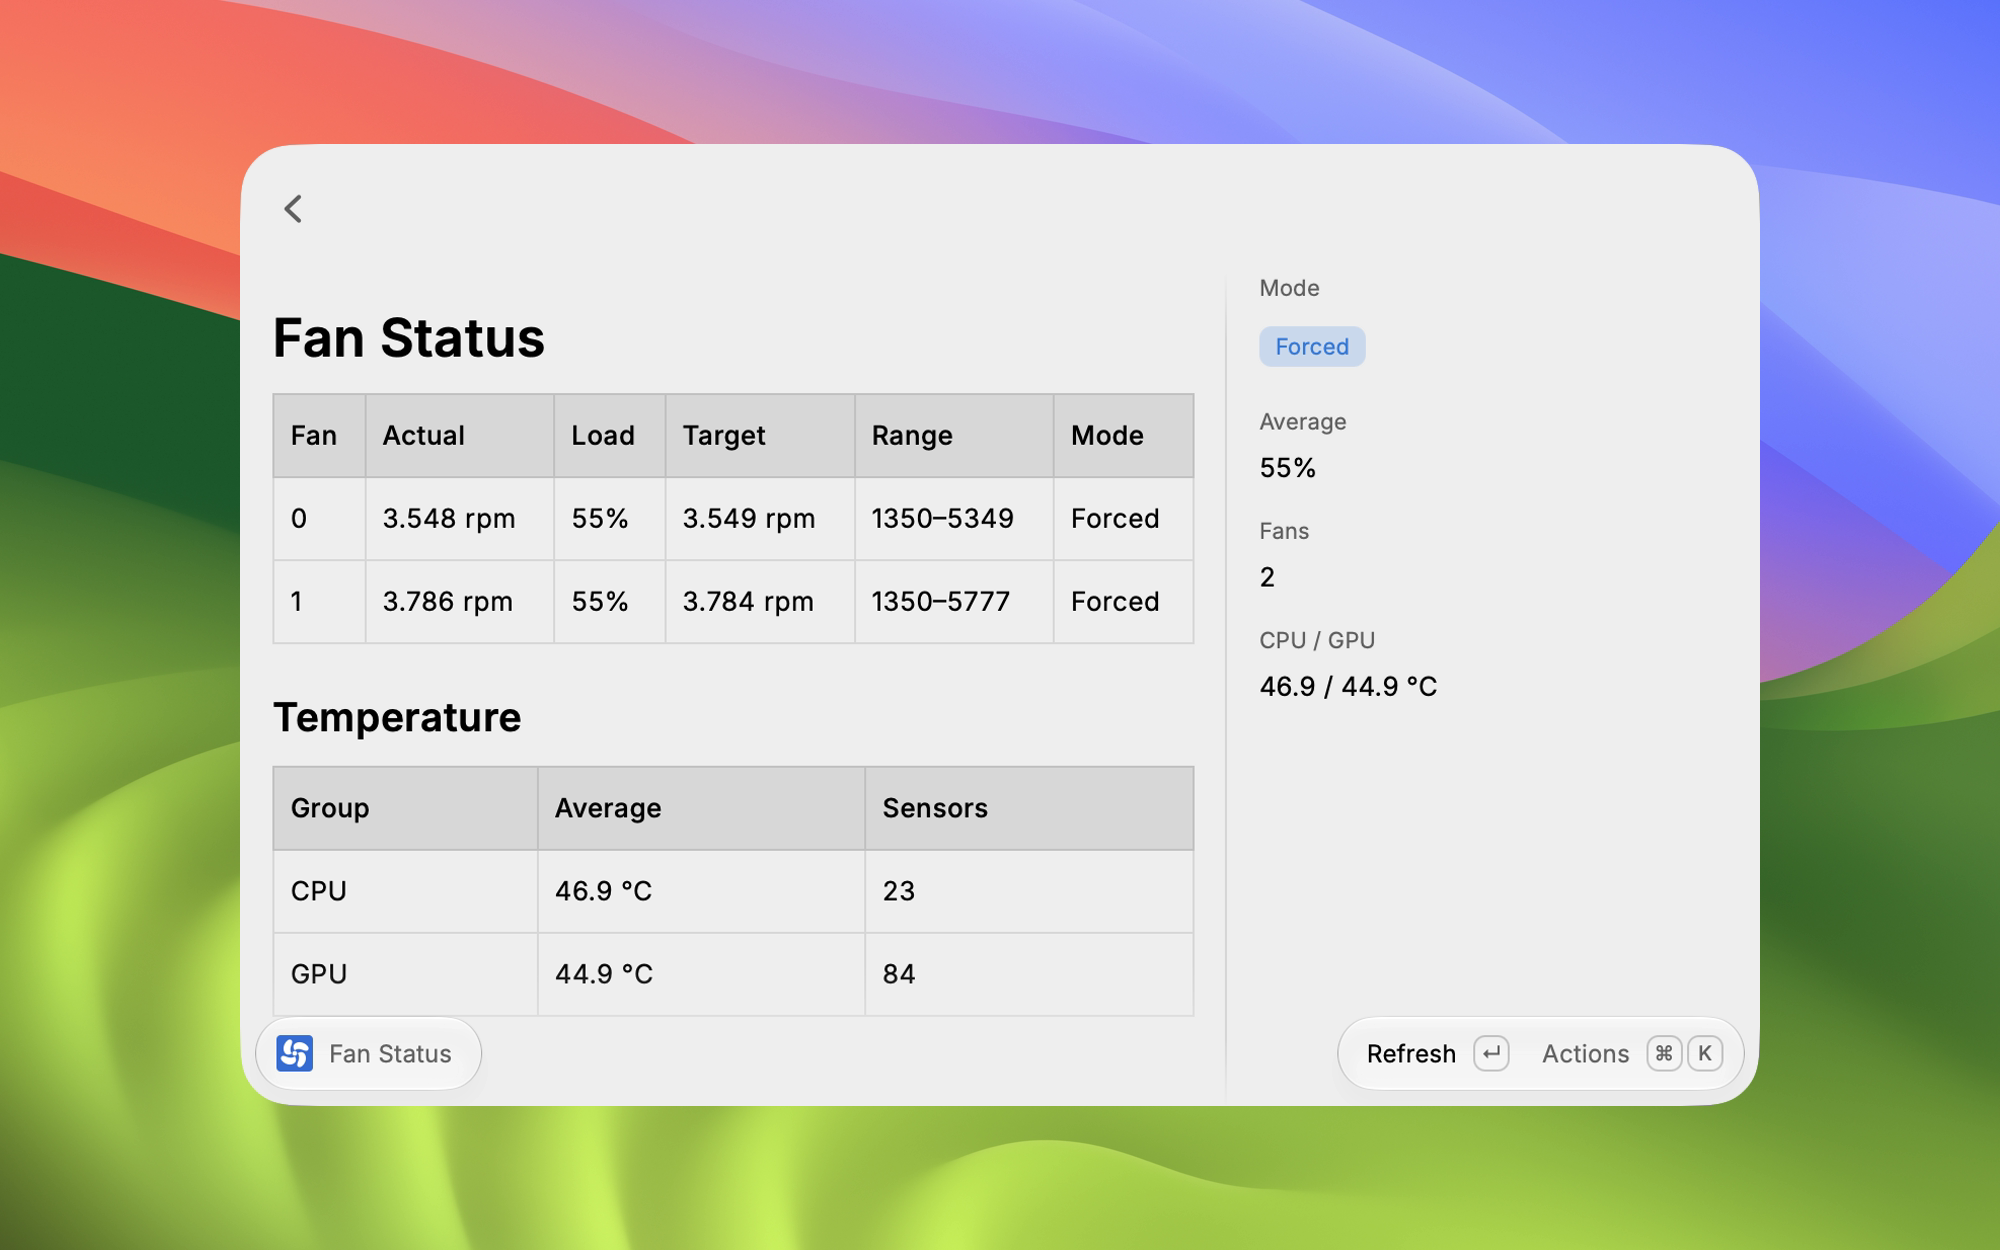
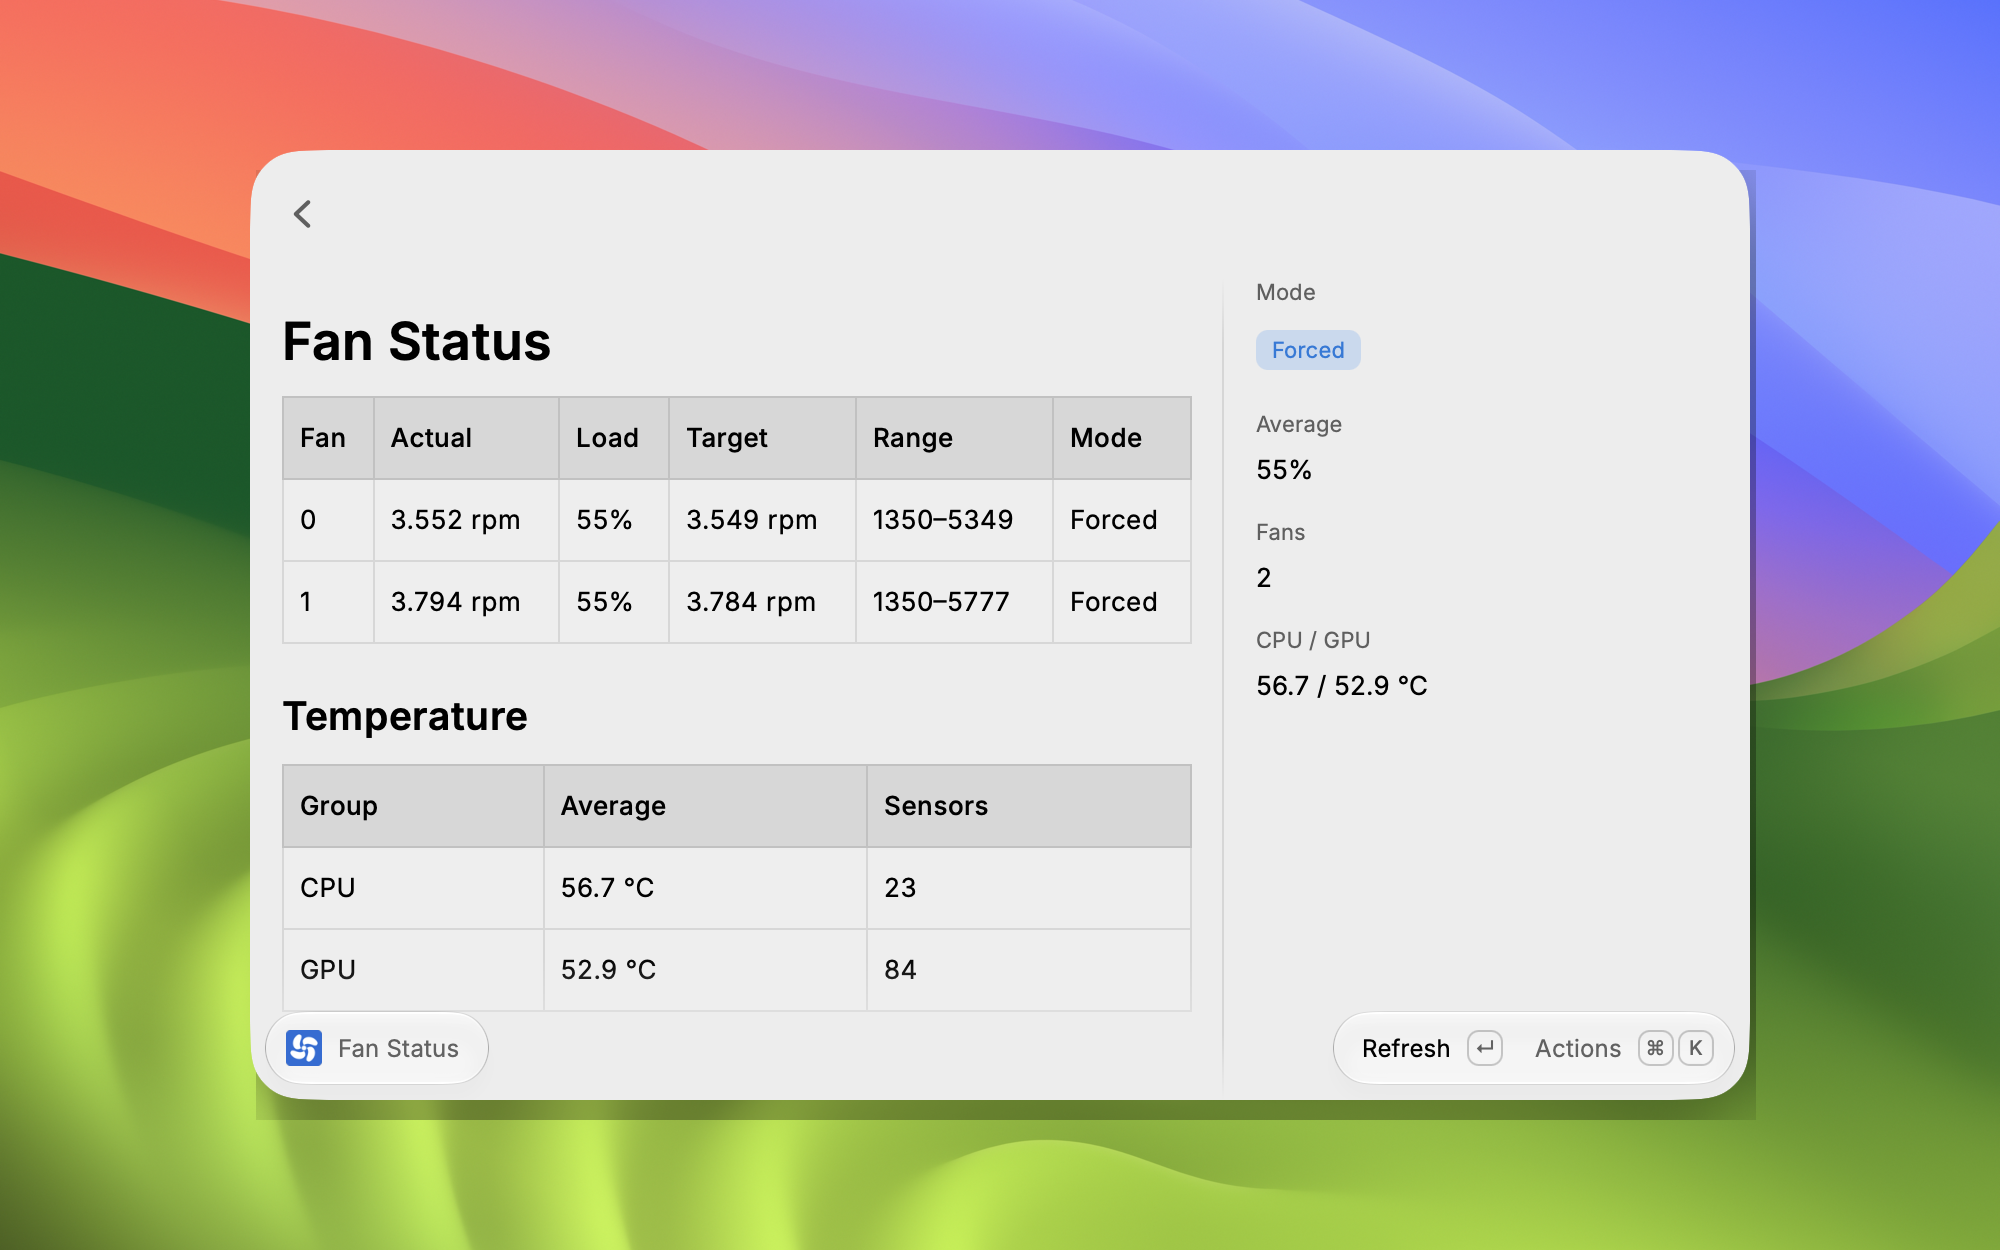
fix: address Raycast Store review feedback (#3)
* fix: address Raycast Store review feedback

- Set Fan Speed: drop the root navigationTitle — the bottom bar shows the
  command title now, and the current mode and speed moved into a section header
- Cool Until Below: the same navigationTitle fix, plus showFailureToast
- Use showFailureToast from @raycast/utils for failures in every command
- Add a "Mac Fan Control" subtitle to each command
- Fold the extension changelog into a single Initial Version entry
- Refresh the lockfile for macos-fan-control-client ^1.1.0

🤖 Generated with [OpenCode](https://opencode.ai) (BSP Agent)

* Update store screenshots for the current UI

Retake the metadata screenshots at 2000x1250: the Set Fan Speed bottom bar and
the action list now reflect the review fixes, and add a Cool Until Below shot.

🤖 Generated with [OpenCode](https://opencode.ai) (BSP Agent)

* Re-centre the actions screenshot

The action-panel capture carried a transparent margin, so centring the whole
capture left the window off-centre and failed the Raycast metadata-image
validator.

🤖 Generated with [OpenCode](https://opencode.ai) (BSP Agent)

diff --git a/interfaces/raycast/src/set-fan-speed.tsx b/interfaces/raycast/src/set-fan-speed.tsx
@@ -9,7 +9,7 @@ import {
   confirmAlert,
   showToast,
 } from "@raycast/api";
-import { useCachedPromise } from "@raycast/utils";
+import { showFailureToast, useCachedPromise } from "@raycast/utils";
 import {
   average,
   estimate,
@@ -40,9 +40,8 @@ export default function Command() {
       toast.title = title;
       revalidate();
     } catch (error) {
-      toast.style = Toast.Style.Failure;
-      toast.title = "Failed";
-      toast.message = (error as Error).message;
+      await toast.hide();
+      showFailureToast(error, { title: "Failed" });
     }
   }
 
@@ -63,64 +62,71 @@ export default function Command() {
   }
 
   return (
-    <List
-      isLoading={isLoading}
-      navigationTitle={
-        fans.length ? `${current} · ${currentPercent}%` : "Fan Control"
-      }
-    >
-      <List.Item
-        icon={{ source: Icon.Repeat, tintColor: Color.Green }}
-        title="Automatic"
-        subtitle="Firmware decides"
-        accessories={
-          current === "Auto"
-            ? [{ tag: { value: "Active", color: Color.Green } }]
-            : []
+    <List isLoading={isLoading}>
+      {/* Set Fan Speed is a root command, so the bottom bar shows its own title;
+          the current mode and speed live here instead. */}
+      <List.Section
+        title={
+          fans.length
+            ? `Current: ${current} · ${currentPercent}%`
+            : "Fan Control"
         }
-        actions={
-          <ActionPanel>
-            <Action
-              title="Restore Automatic"
-              icon={Icon.Repeat}
-              onAction={() => apply(setAutomatic, "Fans on automatic")}
-            />
-          </ActionPanel>
-        }
-      />
-      {PRESETS.map((percent) => (
+      >
         <List.Item
-          key={percent}
-          icon={{
-            source: percent === 100 ? Icon.Bolt : Icon.Gauge,
-            tintColor: percent < CONFIRM_BELOW ? Color.Orange : Color.Blue,
-          }}
-          title={label(percent)}
-          subtitle={fans
-            .map((fan) => rpm(estimate(fan, percent)))
-            .join("  ·  ")}
+          icon={{ source: Icon.Repeat, tintColor: Color.Green }}
+          title="Automatic"
+          subtitle="Firmware decides"
           accessories={
-            current === "Forced" && currentPercent === percent
-              ? [{ tag: { value: "Active", color: Color.Blue } }]
+            current === "Auto"
+              ? [{ tag: { value: "Active", color: Color.Green } }]
               : []
           }
           actions={
             <ActionPanel>
               <Action
-                title={`Force ${label(percent)}`}
-                icon={Icon.Bolt}
-                onAction={() => force(percent)}
-              />
-              <Action
                 title="Restore Automatic"
                 icon={Icon.Repeat}
-                shortcut={{ modifiers: ["cmd", "shift"], key: "r" }}
                 onAction={() => apply(setAutomatic, "Fans on automatic")}
               />
             </ActionPanel>
           }
         />
-      ))}
+      </List.Section>
+      <List.Section title="Force speed">
+        {PRESETS.map((percent) => (
+          <List.Item
+            key={percent}
+            icon={{
+              source: percent === 100 ? Icon.Bolt : Icon.Gauge,
+              tintColor: percent < CONFIRM_BELOW ? Color.Orange : Color.Blue,
+            }}
+            title={label(percent)}
+            subtitle={fans
+              .map((fan) => rpm(estimate(fan, percent)))
+              .join("  ·  ")}
+            accessories={
+              current === "Forced" && currentPercent === percent
+                ? [{ tag: { value: "Active", color: Color.Blue } }]
+                : []
+            }
+            actions={
+              <ActionPanel>
+                <Action
+                  title={`Force ${label(percent)}`}
+                  icon={Icon.Bolt}
+                  onAction={() => force(percent)}
+                />
+                <Action
+                  title="Restore Automatic"
+                  icon={Icon.Repeat}
+                  shortcut={{ modifiers: ["cmd", "shift"], key: "r" }}
+                  onAction={() => apply(setAutomatic, "Fans on automatic")}
+                />
+              </ActionPanel>
+            }
+          />
+        ))}
+      </List.Section>
     </List>
   );
 }

diff --git a/interfaces/raycast/src/cool-until.tsx b/interfaces/raycast/src/cool-until.tsx
@@ -10,7 +10,7 @@ import {
   showToast,
 } from "@raycast/api";
 import { useState } from "react";
-import { useCachedPromise } from "@raycast/utils";
+import { showFailureToast, useCachedPromise } from "@raycast/utils";
 import {
   coolUntil,
   estimate,
@@ -44,9 +44,8 @@ export default function Command() {
       toast.title = title;
       revalidate();
     } catch (error) {
-      toast.style = Toast.Style.Failure;
-      toast.title = "Failed";
-      toast.message = (error as Error).message;
+      await toast.hide();
+      showFailureToast(error, { title: "Failed" });
     }
   }
 
@@ -72,9 +71,6 @@ export default function Command() {
   return (
     <List
       isLoading={isLoading}
-      navigationTitle={
-        cooling ? `Cooling · below ${cooling.below} °C` : "Cool Until Below"
-      }
       searchBarAccessory={
         <List.Dropdown
           tooltip="Speed to hold"

diff --git a/interfaces/raycast/src/fan-menu-bar.tsx b/interfaces/raycast/src/fan-menu-bar.tsx
@@ -3,12 +3,10 @@ import {
   Icon,
   LaunchType,
   MenuBarExtra,
-  Toast,
   launchCommand,
   showHUD,
-  showToast,
 } from "@raycast/api";
-import { useCachedPromise } from "@raycast/utils";
+import { showFailureToast, useCachedPromise } from "@raycast/utils";
 import {
   average,
   mode,
@@ -42,12 +40,8 @@ export default function Command() {
       await action();
       await showHUD(confirmation);
       revalidate();
-    } catch (failure) {
-      await showToast({
-        style: Toast.Style.Failure,
-        title: "Failed",
-        message: (failure as Error).message,
-      });
+    } catch (error) {
+      showFailureToast(error, { title: "Failed" });
     }
   }
 

diff --git a/interfaces/raycast/src/automatic.ts b/interfaces/raycast/src/automatic.ts
@@ -1,4 +1,5 @@
-import { showHUD, showToast, Toast } from "@raycast/api";
+import { showHUD } from "@raycast/api";
+import { showFailureToast } from "@raycast/utils";
 import { setAutomatic } from "macos-fan-control-client";
 
 export default async function Command() {
@@ -6,10 +7,6 @@ export default async function Command() {
     await setAutomatic();
     await showHUD("Fans on automatic");
   } catch (error) {
-    await showToast({
-      style: Toast.Style.Failure,
-      title: "Failed",
-      message: (error as Error).message,
-    });
+    showFailureToast(error, { title: "Failed" });
   }
 }

diff --git a/interfaces/raycast/src/maximum.ts b/interfaces/raycast/src/maximum.ts
@@ -1,4 +1,5 @@
-import { showHUD, showToast, Toast } from "@raycast/api";
+import { showHUD } from "@raycast/api";
+import { showFailureToast } from "@raycast/utils";
 import { setMaximum } from "macos-fan-control-client";
 
 export default async function Command() {
@@ -6,10 +7,6 @@ export default async function Command() {
     await setMaximum();
     await showHUD("Fans at maximum");
   } catch (error) {
-    await showToast({
-      style: Toast.Style.Failure,
-      title: "Failed",
-      message: (error as Error).message,
-    });
+    showFailureToast(error, { title: "Failed" });
   }
 }

diff --git a/interfaces/raycast/src/fan-status.tsx b/interfaces/raycast/src/fan-status.tsx
@@ -11,7 +11,7 @@ import {
   Keyboard,
 } from "@raycast/api";
 import { useEffect } from "react";
-import { useCachedPromise } from "@raycast/utils";
+import { showFailureToast, useCachedPromise } from "@raycast/utils";
 import {
   FanStatus,
   average,
@@ -75,9 +75,8 @@ export default function Command() {
       toast.title = title;
       revalidate();
     } catch (error) {
-      toast.style = Toast.Style.Failure;
-      toast.title = "Failed";
-      toast.message = (error as Error).message;
+      await toast.hide();
+      showFailureToast(error, { title: "Failed" });
     }
   }
 

diff --git a/interfaces/raycast/CHANGELOG.md b/interfaces/raycast/CHANGELOG.md
@@ -1,13 +1,9 @@
 # Mac Fan Control Changelog
 
-## [Cool until below] - {PR_MERGE_DATE}
-
-- New **Cool Until Below** command: hold a speed (maximum by default) until the hottest sensor drops below a chosen temperature, then release the fans to firmware — runs in the background
-- Fan Status and the menu bar show the active cooldown and can cancel it
-
 ## [Initial Version] - {PR_MERGE_DATE}
 
 - Show live fan speed, control mode and CPU/GPU temperature
 - Force every fan to a percentage of its own hardware RPM range
+- Cool Until Below: hold a speed until the hottest sensor drops below a temperature, then release the fans to firmware
 - Apply maximum speed or hand all fans back to SMC firmware control in one keystroke
-- Menu bar command with current RPM, temperatures and quick actions
+- Menu bar command with current RPM, temperatures, any active cooldown, and quick actions
